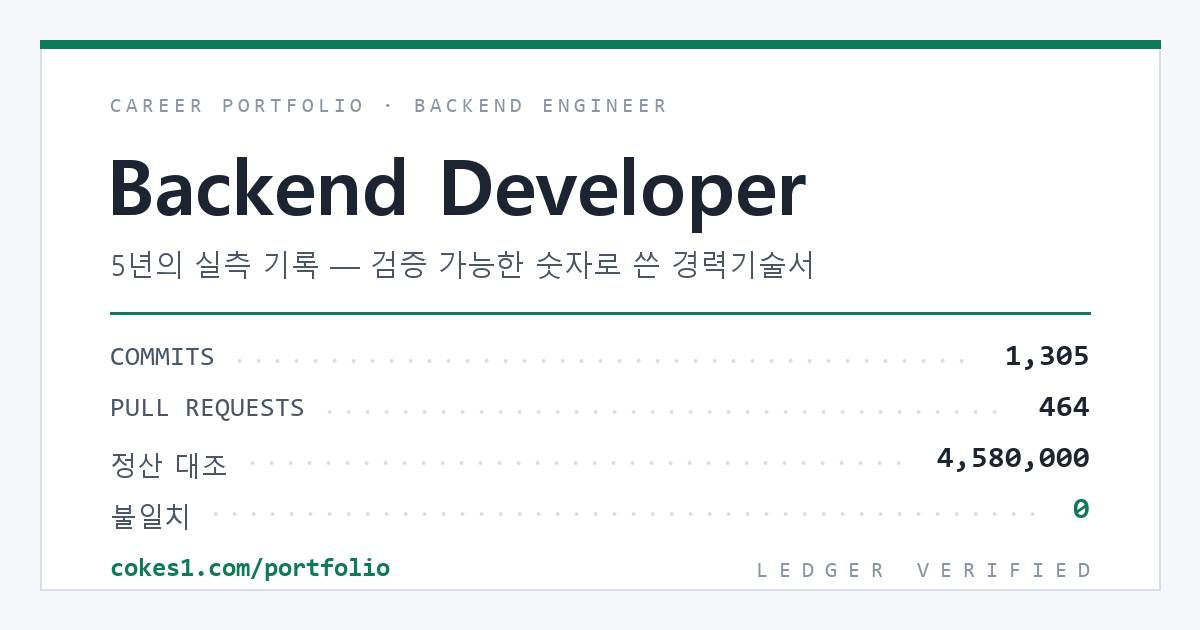
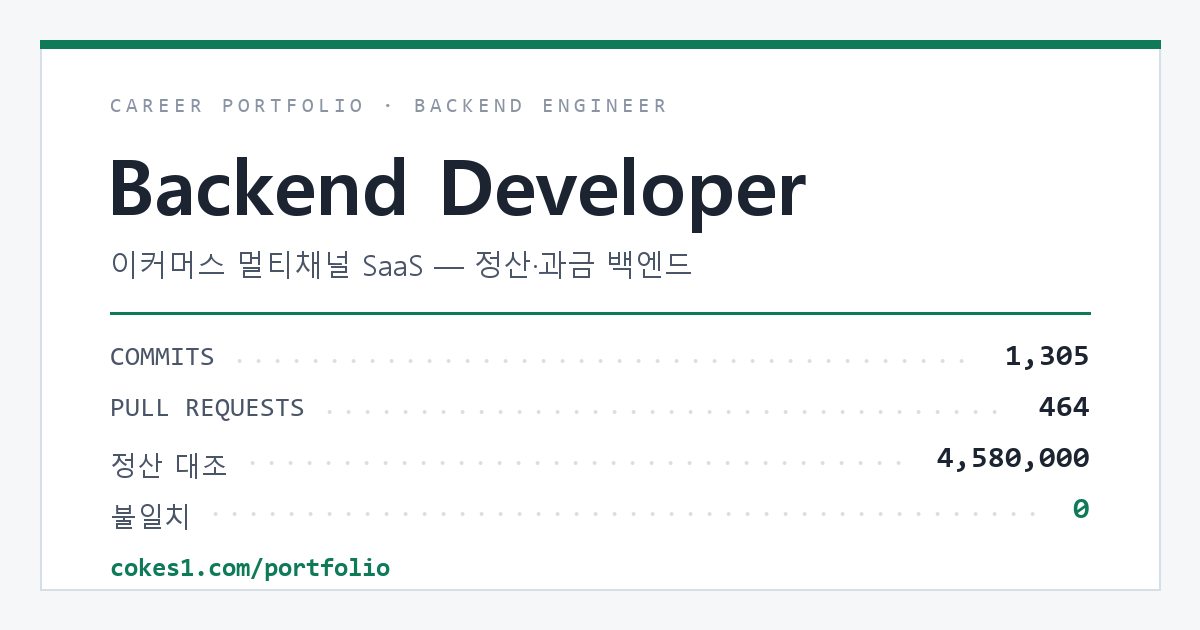
헤더 문구 자연화 및 원장 테이블 소개형으로 교체
- doc-sub·ledger-note·메타 설명을 문장형으로 수정 (키워드 나열 제거)
- 상단 테이블: 수치 3행 → DOMAIN/STACK 소개 2행 (수치는 본문 카드 배지와 중복이라 제거)
- og.png 부제 교체, LEDGER VERIFIED 문구 제거

Changed region(s): [[0.0925, 0.3921, 0.6783, 0.4524], [0.6475, 0.8746, 0.6783, 0.9349]]

diff --git a/src/main/resources/static/portfolio/index.html b/src/main/resources/static/portfolio/index.html
@@ -4,12 +4,12 @@
     <meta charset="UTF-8">
     <meta name="viewport" content="width=device-width, initial-scale=1.0">
     <title>Backend Developer | 경력기술서 &amp; 포트폴리오</title>
-    <meta name="description" content="5년의 실측 기록 · 1,305 commits · 464 PRs · 정산 대조 458만 건 불일치 0">
+    <meta name="description" content="이커머스 정산·과금 백엔드 개발자 — 1,305 commits · 464 PRs · 정산 대조 458만 건 불일치 0">
     <link rel="icon" href="/portfolio/favicon.svg" type="image/svg+xml">
 
     <!-- Open Graph (공유 미리보기) -->
     <meta property="og:title" content="Backend Developer — 경력기술서 &amp; 포트폴리오">
-    <meta property="og:description" content="5년의 실측 기록 · 1,305 commits · 464 PRs · 정산 대조 458만 건 불일치 0">
+    <meta property="og:description" content="이커머스 정산·과금 백엔드 개발자 — 1,305 commits · 464 PRs · 정산 대조 458만 건 불일치 0">
     <meta property="og:type" content="website">
     <meta property="og:url" content="https://cokes1.com/portfolio">
     <meta property="og:image" content="https://cokes1.com/portfolio/images/og.png">
@@ -587,7 +587,7 @@
     <header class="doc-header">
         <p class="doc-eyebrow">CAREER PORTFOLIO · BACKEND ENGINEER</p>
         <h1 class="doc-title">Backend Developer</h1>
-        <p class="doc-sub">이커머스 멀티채널 플랫폼 · 정산/과금 머니패스 · 레거시 → V2 마이그레이션 — 5년의 실측 기록</p>
+        <p class="doc-sub">이커머스 도메인에서 5년을 보낸 백엔드 개발자입니다. 지금은 멀티채널 커머스 SaaS에서 정산·과금과 레거시 → 신규 전환을 맡고 있습니다.</p>
         <table class="ledger" aria-label="핵심 지표 요약">
             <tbody>
             <tr>
@@ -595,20 +595,15 @@
                 <td class="v"><span class="num" data-n="5">5</span>년+ · 백엔드 / 풀스택</td>
             </tr>
             <tr>
-                <td class="k">LAST 13.5 MONTHS</td>
-                <td class="v"><span class="num" data-n="1305">1,305</span> commits · <span class="num" data-n="464">464</span> PRs <em>merge 94%</em></td>
+                <td class="k">DOMAIN</td>
+                <td class="v">이커머스 — 정산·과금, 마켓 연동, 레거시 전환</td>
             </tr>
             <tr>
-                <td class="k">SETTLEMENT AUDIT</td>
-                <td class="v"><span class="num" data-n="458">458</span>만 건 대조 · <em>불일치 <span class="num" data-n="0">0</span>건</em></td>
-            </tr>
-            <tr>
-                <td class="k">MARKETPLACES</td>
-                <td class="v"><span class="nw"><span class="num" data-n="20">20</span>+ 채널 연동</span> · <span class="nw">신규 온보딩 <span class="num" data-n="2">2</span>건</span></td>
+                <td class="k">STACK</td>
+                <td class="v">Kotlin · Spring Boot · PHP(Laravel) · MySQL · AWS</td>
             </tr>
             </tbody>
         </table>
-        <p class="ledger-note">* GitHub 전수 조사 · 운영 DB 실측 기준</p>
         <div class="doc-links">
             <a href="https://github.com/kjh1305" target="_blank">GitHub — kjh1305</a>
             <a href="https://cokes.tistory.com" target="_blank">Blog — cokes.tistory.com</a>
